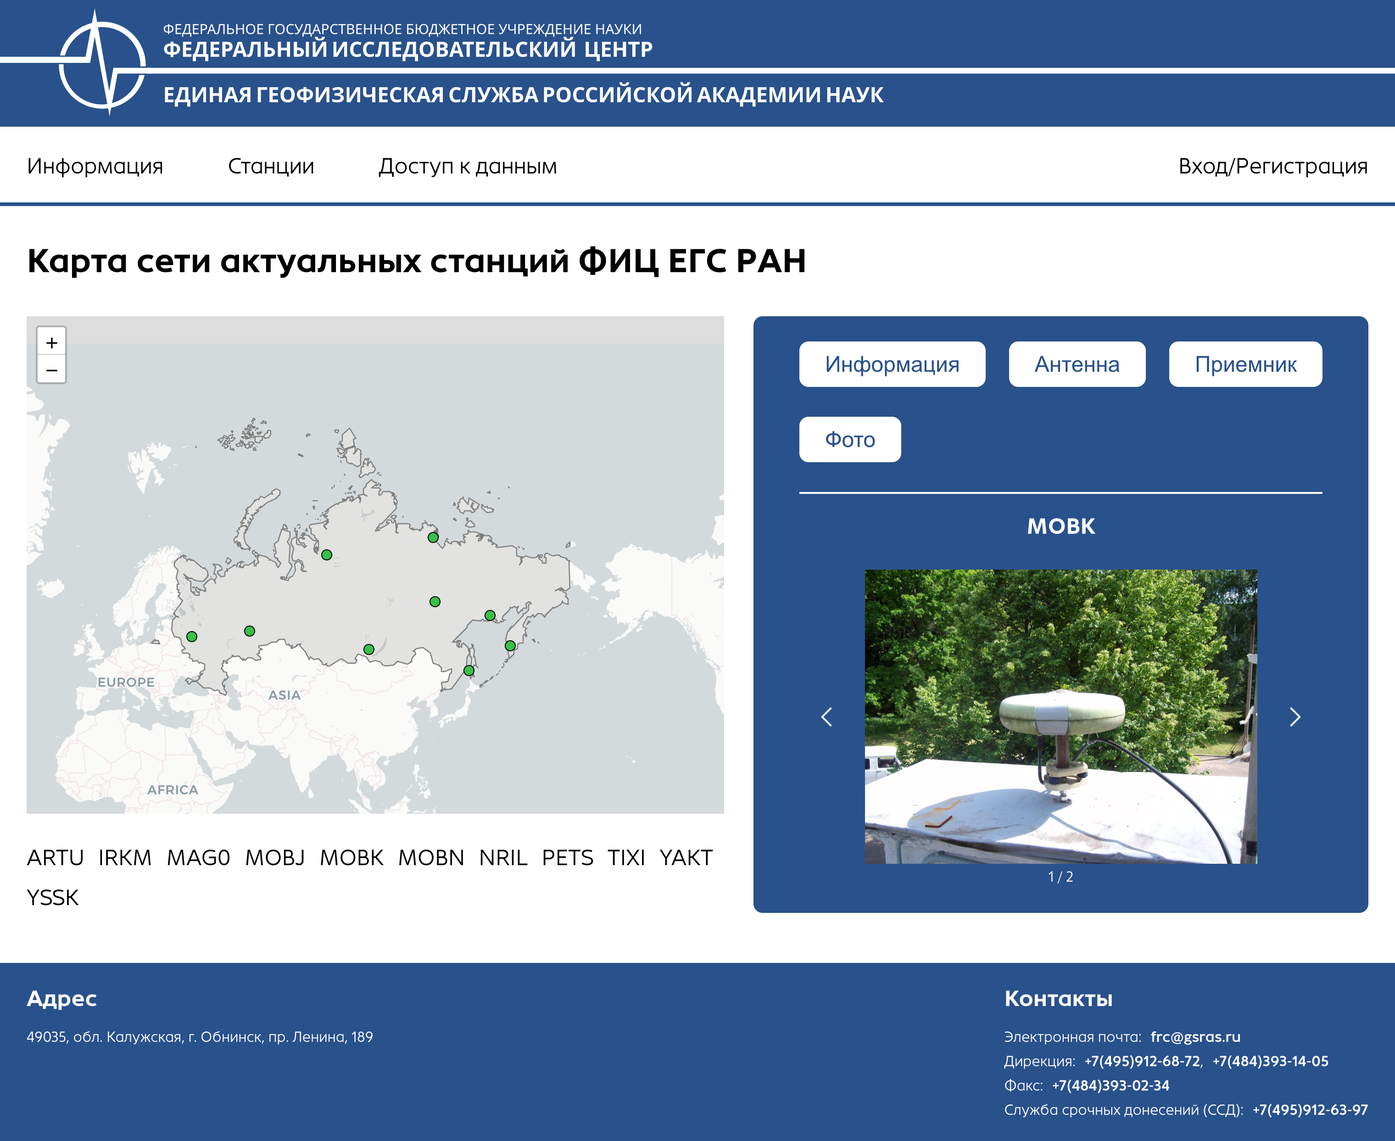
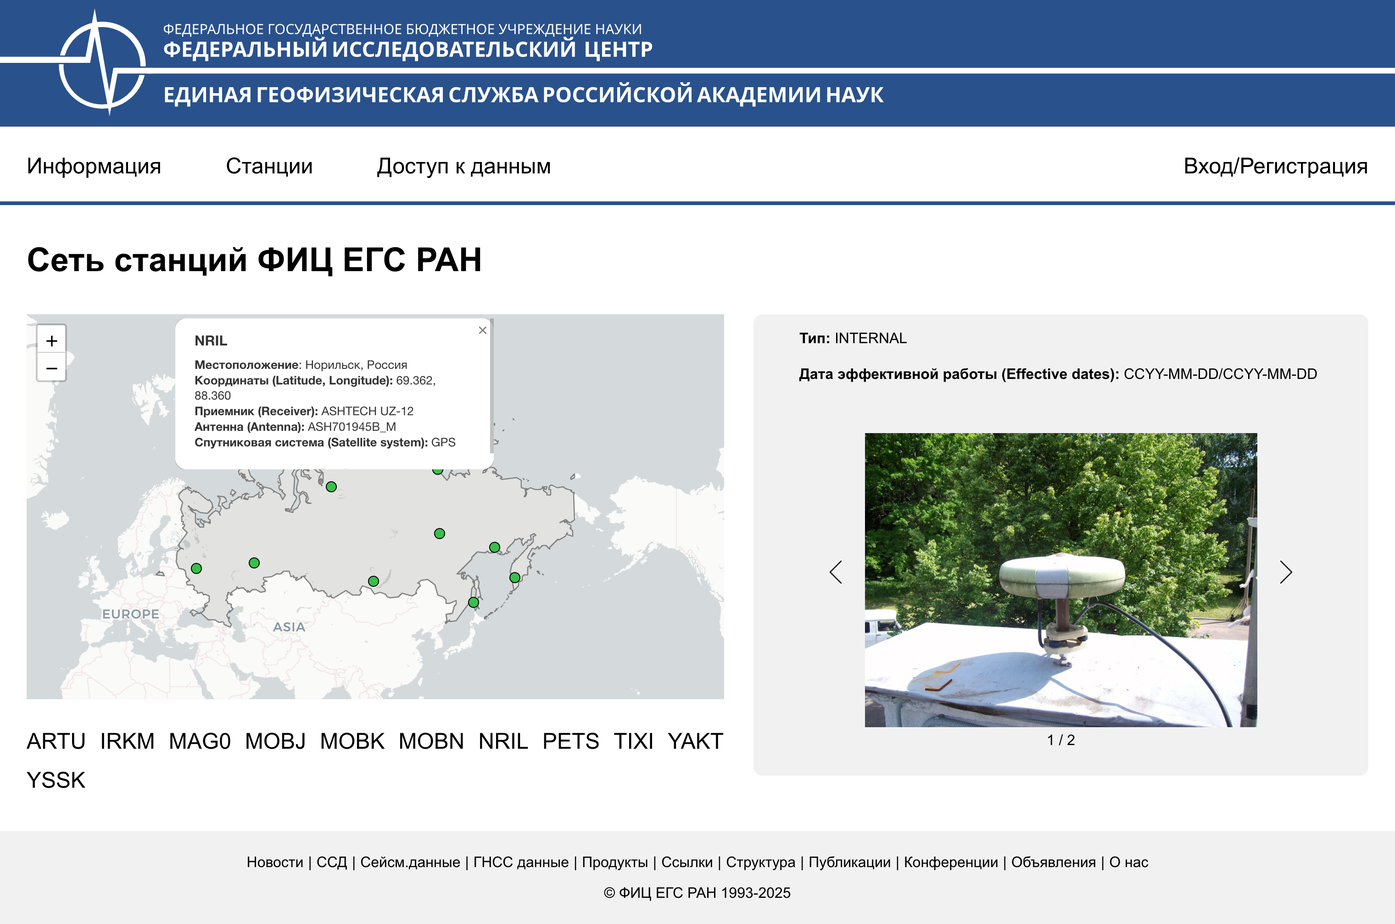
Visual changes

diff --git a/src/pages/InfoPage/InfoPage.tsx b/src/pages/InfoPage/InfoPage.tsx
@@ -5,48 +5,32 @@ function InfoPage() {
     <section className='info'>
       <div className='info__container'>
         <p className='info__description'>
-          ФИЦ ЕГС РАН обеспечивает функционирование сети опорных станций 
-          Глобальных Навигационных Спутниковых Систем (ГНСС) GPS/ГЛОНАСС 
-          непрерывной регистрации (сеть NEDA), а также региональных геодинамических
-          полигонов, с целью проведения геодинамического мониторинга. 
+          Этот сайт – веб-интерфейс ФИЦ ЕГС РАН для работы с сетью ГНСС-станций и
+          доступа к данным наблюдений. Ниже – что вы можете получить прямо сейчас и
+          что появится после авторизации.
         </p>
-        <p className='info__description'>
-          Для технической и методологической поддержки проведения геодинамических
-          наблюдений на базе ФИЦ ЕГС РАН сформирован Центр геодинамических наблюдений.
-        </p>
-        <p className='info__description'>
-          Основными задачами Центра геодинамических наблюдений являются: 
-        </p>
+        <p className='info__description'><strong>Доступно без авторизации</strong></p>
         <ul className='info__list'>
           <li className='info__item'>
-            Разработка и реализация концепции геодинамического мониторинга
-            на основе глобальных навигационных спутниковых систем (ГНСС) GPS/ГЛОНАСС 
+            Карта сети станций ФИЦ ЕГС РАН: просмотр расположения станций, границ региона,
+            всплывающие окна с ключевой информацией (местоположение, координаты, приёмник, антенна, спутниковая система).
           </li>
           <li className='info__item'>
-            Создание и развитие единой системы высокоточных геодинамических наблюдений и их
-            интерпретации на базе станций ГНСС-наблюдений ФИЦ ЕГС РАН и других организаций и ведомств
-          </li>
-          <li className='info__item'>
-            Анализ работы региональных геодинамических полигонов и выработки 
-            рекомендаций по их созданию и совершенствованию 
-          </li>
-          <li className='info__item'>
-            Интеграция опорной континентальной сети GPS/ГЛОНАСС-наблюдений ФИЦ ЕГС РАН в мировую сеть IGS 
-          </li>
-          <li className='info__item'>
-            Исследование деформаций и сейсмических смещений земной коры, опорных точек общественно и 
-            производственно значимых объектов в районах высокой тектонической активности, районах 
-            интенсивной разработки полезных ископаемых и других районах активного воздействия на окружающую среду. 
+            Паспорта станций: полный просмотр разделов «Обзор», «Антенна», «Приёмник» для каждой станции.
+            Доступ открыт всем пользователям, авторизация не требуется.
           </li>
         </ul>
-        <p className='info__description'>
-          Сеть из опорных станций ФИЦ ЕГС РАН играет важную роль для решения
-          задач крупномасштабной геодинамики, моделирования деформационных процессов,
-          изучения ионосферы и тропосферы. Одной из важнейших задач опорной сети 
-          ФИЦ ЕГС РАН является также обеспечение отсчетной основы для региональных 
-          геодинамических полигонов (Камчатского, Курильского и Северо-Кавказского), 
-          развернутых в тектонически активных областях с целью сгущения наблюдательной сети. 
-        </p>
+        <p className='info__description'><strong>После авторизации (в разработке)</strong></p>
+        <ul className='info__list'>
+          <li className='info__item'>
+            Доступ к данным и архивам наблюдений: формирование запросов, просмотр параметров,
+            скачивание подготовленных файлов по ссылке.
+          </li>
+          <li className='info__item'>
+            Авторизация предназначена для доступа к данным. Выдача прав выполняется организацией вручную
+            после проверки вашей заявки и оснований.
+          </li>
+        </ul>
       </div>
     </section>
   );

diff --git a/src/modules/StationCard/StationCardTabs/TabOverview.tsx b/src/modules/StationCard/StationCardTabs/TabOverview.tsx
@@ -2,24 +2,19 @@ import { Station } from '@constants/constants.ts';
 import TabPhoto from './TabPhoto.tsx';
 
 function TabOverview({ station }: {station: Station}) {
-  if(station.Clock) {
-    return (
-      <>
-        <p className='cards__station__description'><strong>Местоположение</strong>: {station.Region}</p>
-        {station.Latitude && <p className='cards__station__description'><strong>Широта:</strong> {station.Latitude}</p>}
-        {station.Longitude && <p className='cards__station__description'><strong>Долгота:</strong> {station.Longitude}</p>}
-        {station.Height && <p className='cards__station__description'><strong>Высота:</strong> {station.Height}</p>}
-        {station.Clock && <h4 className='cards__station__subtitle'>Часы</h4>}
-        {station.Clock.Type && <p className='cards__station__description'><strong>Тип:</strong> {station.Clock.Type}</p>}
-        {station.Clock.InputFrequency && <p className='cards__station__description'><strong>Входная частота:</strong> {station.Clock.InputFrequency}</p>}
-        {station.Clock.EffectiveDates && <p className='cards__station__description'><strong>Дата эффективной работы (Effective dates):</strong> {station.Clock.EffectiveDates}</p>}
-        <TabPhoto station={station} />
-      </>
-    );
-  } else {
-    return <div className='cards__station__description'>Информация о часах отсутствует</div>;
-  }
-  
+  return (
+    <>
+      <p className='cards__station__description'><strong>Местоположение</strong>: {station.Region}</p>
+      {station.Latitude && <p className='cards__station__description'><strong>Широта:</strong> {station.Latitude}</p>}
+      {station.Longitude && <p className='cards__station__description'><strong>Долгота:</strong> {station.Longitude}</p>}
+      {station.Height && <p className='cards__station__description'><strong>Высота:</strong> {station.Height}</p>}
+      {/* {station.Clock && <h4 className='cards__station__subtitle'>Часы</h4>}
+      {station.Clock.Type && <p className='cards__station__description'><strong>Тип:</strong> {station.Clock.Type}</p>}
+      {station.Clock.InputFrequency && <p className='cards__station__description'><strong>Входная частота:</strong> {station.Clock.InputFrequency}</p>}
+      {station.Clock.EffectiveDates && <p className='cards__station__description'><strong>Дата эффективной работы (Effective dates):</strong> {station.Clock.EffectiveDates}</p>} */}
+      <TabPhoto station={station} />
+    </>
+  );
 }
   
 export default TabOverview;

diff --git a/src/modules/Map/Map.tsx b/src/modules/Map/Map.tsx
@@ -61,7 +61,7 @@ function Map() {
     <>
       <section className='cards'>
           <div className='cards__container'>
-              <h2 className='cards__title'>Карта сети актуальных станций ФИЦ ЕГС РАН</h2>
+              <h2 className='cards__title'>Сеть станций ФИЦ ЕГС РАН</h2>
               <div className='cards__map-container'>
                 <div className='cards__map'>
                   <MapContainer center={position} zoom={2} style={{height: '100%', width: '100%'}} attributionControl={false}>
@@ -86,10 +86,10 @@ function Map() {
                               <div key={station.Name}>
                                 <h3 className='cards__map-popup__title'><strong>{station.Name.toUpperCase()}</strong></h3>
                                 <p className='cards__map-popup__description'><strong>Местоположение</strong>: {station.Region}</p>
-                                <p className='cards__map-popup__description'><strong>Координаты (Latitude, Longitude):</strong> {station.Latitude + ', ' + station.Longitude}</p>
-                                {station.Receiver && <p className='cards__map-popup__description'><strong>Приемник (Receiver):</strong> {station.Receiver.Name}</p>}
-                                {station.Antenna && <p className='cards__map-popup__description'><strong>Антенна (Antenna):</strong> {station.Antenna.Name}</p>}
-                                {station.Receiver && <p className='cards__map-popup__description'><strong>Спутниковая система (Satellite system):</strong> {station.Receiver.SatelliteSystem}</p>}
+                                <p className='cards__map-popup__description'><strong>Координаты:</strong> {station.Latitude + ', ' + station.Longitude}</p>
+                                {station.Receiver && <p className='cards__map-popup__description'><strong>Приемник:</strong> {station.Receiver.Name}</p>}
+                                {station.Antenna && <p className='cards__map-popup__description'><strong>Антенна:</strong> {station.Antenna.Name}</p>}
+                                {station.Receiver && <p className='cards__map-popup__description'><strong>Спутниковая система:</strong> {station.Receiver.SatelliteSystem}</p>}
                               </div>
                             ))}
                           </Popup>

diff --git a/src/pages/Footer/Footer.tsx b/src/pages/Footer/Footer.tsx
@@ -6,16 +6,15 @@ function Footer() {
       <div className='footer__container'>
         <div className="footer__links">
           <a className="footer__link" href="http://www.gsras.ru/new/news/">Новости</a>
-          <a className="footer__link" href="http://www.gsras.ru/cgi-bin/new/catalog.pl?l=0">Каталоги</a>
-          <a className="footer__link" href="http://www.gsras.ru/new/wf/">Сейсм.данные</a>
           <a className="footer__link" href="http://www.gsras.ru/new/ssd.htm">ССД</a>
+          <a className="footer__link" href="http://www.gsras.ru/new/wf/">Сейсм.данные</a>
+          <a className="footer__link" href="http://www.gsras.ru/new/gncc/">ГНСС данные</a>
           <a className="footer__link" href="http://www.gsras.ru/new/soft/">Продукты</a>
           <a className="footer__link" href="http://www.gsras.ru/new/links.htm">Ссылки</a>
           <a className="footer__link" href="http://www.gsras.ru/new/struct/">Структура</a>
           <a className="footer__link" href="http://www.gsras.ru/new/public/">Публикации</a>
           <a className="footer__link" href="http://www.gsras.ru/new/conf/">Конференции</a>
           <a className="footer__link" href="http://www.gsras.ru/new/announ/">Объявления</a>
-          <a className="footer__link" href="http://www.gsras.ru/new/doc/corrup.htm">Противодействие коррупции</a>
           <a className="footer__link" href="http://www.gsras.ru/new/about.htm">О нас</a>
         </div>
         <p className="footer__copyright">

diff --git a/src/constants/constants.ts b/src/constants/constants.ts
@@ -33,18 +33,18 @@ export const allStationNames: string[] = [
 ];
 
 export const activeStations: Array<Station> = [
-  // { Name: 'arti', Latitude: '56.430', Longitude: '58.560' },
   { Name: 'artu', Region: 'Арти, Россия' },
+  { Name: 'arti', Region: 'Арти, Россия', Latitude: '56.430', Longitude: '58.560' },
   { Name: 'irkm', Region: 'Иркутск, Россия' },
-  // { Name: 'irkt', Region: 'Иркутск, Россия', Latitude: '52.219', Longitude: '104.316' },
+  { Name: 'irkt', Region: 'Иркутск, Россия', Latitude: '52.219', Longitude: '104.316' },
   { Name: 'mag0', Region: 'Магадан, Россия' },
-  { Name: 'mobj', Region: 'Обнинск, Россия' },
-  { Name: 'mobk', Region: 'Обнинск, Россия' },
   { Name: 'mobn', Region: 'Обнинск, Россия' },
+  { Name: 'mobk', Region: 'Обнинск, Россия' },
+  { Name: 'mobj', Region: 'Обнинск, Россия' },
   { Name: 'nril', Region: 'Норильск, Россия' },
   { Name: 'pets', Region: 'Петропавловск-Камчатский, Россия' },
   { Name: 'tixi', Region: 'Тикси, Россия' },
-  // { Name: 'tixj', Region: 'Тикси, Россия', Latitude: '71.634', Longitude: '128.866' },
+  { Name: 'tixj', Region: 'Тикси, Россия', Latitude: '71.634', Longitude: '128.866' },
   { Name: 'yakt', Region: 'Якутск, Россия' },
   { Name: 'yssk', Region: 'Южно-Сахалинск, Россия' },
 ];

diff --git a/src/modules/StationCard/StationCard.tsx b/src/modules/StationCard/StationCard.tsx
@@ -23,14 +23,14 @@ function StationCard({ station }: { station: Station }) {
   return (
     <div className='cards__station'>
       <div className='cards__station-container'>
+        <div className='cards__station__titles'>
+          <h3 className='cards__station__title'><strong>{station.Name.toUpperCase()}</strong></h3>
+          <a href={jsonUrl} className='cards__station__link' download={`${station.Name.toLowerCase()}Passport.json`}>(Скачать паспорт)</a>
+        </div>
         <div className='cards__station-links'>
           <button onClick={() => setTab('overview')} className='button cards__station-link'>Информация</button>
           <button onClick={() => setTab('antenna')} className='button cards__station-link'>Антенна</button>
           <button onClick={() => setTab('receiver')} className='button cards__station-link'>Приемник</button>
-        </div>
-        <div className='cards__station__titles'>
-          <h3 className='cards__station__title'><strong>{station.Name.toUpperCase()}</strong></h3>
-          <a href={jsonUrl} className='cards__station__link' download={`${station.Name.toLowerCase()}Passport.json`}>(Скачать паспорт)</a>
         </div>
         {content}
       </div>

diff --git a/src/pages/Authorization/Authorization.scss b/src/pages/Authorization/Authorization.scss
@@ -12,16 +12,16 @@
         flex-direction: column;
         justify-content: center;
         align-items: center;
-        background-color: variables.$main-color;
+        background-color: variables.$light-gray;
         border-radius: variables.$radius-m;
         box-shadow: 8px 8px 6px variables.$shadow-black;
     }
 
     &__title {
-        color: variables.$white-color;
+        color: variables.$black-color;
         font-size: variables.$font-size-l;
         font-weight: variables.$font-weight-bold;
-        text-shadow: 4px 4px 6px variables.$shadow-white;
+        text-shadow: 1px 1px 3px variables.$shadow-white;
     }
 
     &__form {
@@ -37,13 +37,13 @@
             width: 70%;
             padding: 4px 0 4px 16px;
             height: 36px;
-            border: none;
+            border: 1px solid variables.$second-color;
             border-radius: variables.$radius-s;
             color: variables.$black-color;
             font-size: variables.$font-size-s;
 
             &::placeholder {
-                color: variables.$placeholder-main;
+                color: variables.$second-color;
                 font-size: variables.$font-size-s;
             }
         }

diff --git a/src/modules/StationCard/StationCardTabs/TabReceiver.tsx b/src/modules/StationCard/StationCardTabs/TabReceiver.tsx
@@ -9,7 +9,7 @@ function TabReceiver({ station }: { station: Station }) {
         {station.Receiver.SerialNumber && <p className='cards__station__description'><strong>Серийный номер:</strong> {station.Receiver.SerialNumber}</p>}
         {station.Receiver.FirmwareVersion && <p className='cards__station__description'><strong>Версия прошивки:</strong> {station.Receiver.FirmwareVersion}</p>}
         {station.Receiver.ElevCutoff && <p className='cards__station__description'><strong>Отсечка высоты (Elev cutoff):</strong> {station.Receiver.ElevCutoff}</p>}
-        {station.Receiver.DateInstalled && <p className='cards__station__description'><strong>Дата установки:</strong> {station.Receiver.DateInstalled}</p>} 
+        {station.Receiver.DateInstalled && <p className='cards__station__description'><strong>Дата установки:</strong> {station.Receiver.DateInstalled.split('T')[0]}</p>} 
       </>
     );
   } else {

diff --git a/src/modules/StationCard/StationCardTabs/TabAntenna.tsx b/src/modules/StationCard/StationCardTabs/TabAntenna.tsx
@@ -11,7 +11,7 @@ function TabAntenna({ station }: { station: Station }) {
         {station.Antenna.MarkerUp && <p className='cards__station__description'><strong>Marker up:</strong> {station.Antenna.MarkerUp}</p>}
         {station.Antenna.MarkerNorth && <p className='cards__station__description'><strong>Marker north:</strong> {station.Antenna.MarkerNorth}</p>}
         {station.Antenna.MarkerEast && <p className='cards__station__description'><strong>Marker east:</strong> {station.Antenna.MarkerEast}</p>}
-        {station.Antenna.DateInstalled && <p className='cards__station__description'><strong>Дата установки:</strong> {station.Antenna.DateInstalled}</p>}
+        {station.Antenna.DateInstalled && <p className='cards__station__description'><strong>Дата установки:</strong> {station.Antenna.DateInstalled.split('T')[0]}</p>}
       </>
     );
   } else {

diff --git a/src/pages/Footer/Footer.scss b/src/pages/Footer/Footer.scss
@@ -13,6 +13,9 @@
 
     &__links {
         display: flex;
+        flex-wrap: wrap;
+        justify-content: center;
+        align-items: center;
         column-gap: 5px;
     }
 
@@ -21,16 +24,16 @@
         font-size: variables.$font-size-xs;
         text-decoration: transparent;
         transition: variables.$transition-medium text-decoration;
-    }
 
-    &__link:hover {
-        text-decoration: underline;
-    }
+        &:hover {
+            text-decoration: underline;
+        }
 
-    &__link:not(:last-child) {
-        &::after {
-            content: '|';
-            margin-left: 5px;
+        &:not(:last-child) {
+            &::after {
+                content: '|';
+                margin-left: 5px;
+            }
         }
     }
 

diff --git a/src/modules/StationCard/StationCard.scss b/src/modules/StationCard/StationCard.scss
@@ -34,11 +34,11 @@
 
     &__titles {
         display: flex;
+        flex-direction: column;
         justify-content: center;
         align-items: center;
-        column-gap: 0.1vw;
-        border-top: 1px solid variables.$second-color;
-        padding-top: 2vh;
+        border-bottom: 1px solid variables.$second-color;
+        padding-bottom: 2vh;
         margin-bottom: 3vh;
     }
 

diff --git a/src/components/CustomInput/CustomInput.scss b/src/components/CustomInput/CustomInput.scss
@@ -42,11 +42,11 @@
 .input-checkbox:checked::before {
     content: "";
     display: block;
-    width: 3px;
-    height: 3px;
+    width: 9px;
+    height: 9px;
     background: variables.$black-color;
     border-radius: 50%;
     position: absolute;
-    top: 2px;
-    left: 2px;
+    top: -1px;
+    left: -1px;
 }
